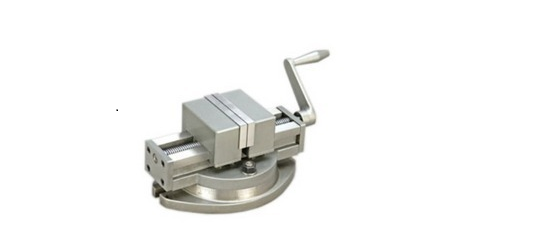
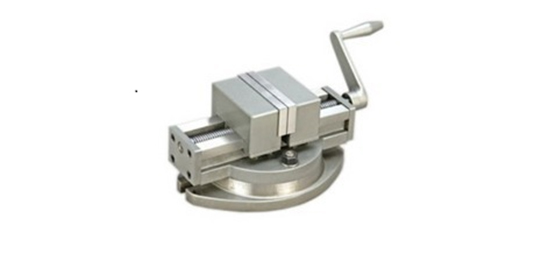
image fixing fourth completed

Changed region(s): [[0.2672, 0.056, 0.7124, 0.868]]

diff --git a/products/machine vices/6/index.html b/products/machine vices/6/index.html
@@ -108,13 +108,13 @@
     <section id="product">
         <div class="container">
             <div class="image-holder">
-                <div class="row">
-                    <div class="col-lg-12">
-                        <img src="images/three.png" alt="product image" style="padding: 0px !important">
+                <div class="row" style="vertical-align: middle">
+                    <div class="col-lg-7">
+                        <img src="images/one.jpg" alt="product image" style="padding: 0px !important">
                     </div>
-                    <!--<div class="col-lg-5">
-    <img class="ed-image" src="images/one-ed.png" alt="ed image">
-</div>-->
+                    <div class="col-lg-5">
+                        <img class="ed-image" src="images/one-ed.jpg" alt="ed image">
+                    </div>
                 </div>
             </div>
             <div class="information">

diff --git a/products/machine vices/4/index.html b/products/machine vices/4/index.html
@@ -110,7 +110,7 @@
             <div class="image-holder">
                 <div class="row">
                     <div class="col-lg-12">
-                        <img src="images/three.png" alt="product image" style="padding: 0px !important">
+                        <img src="images/image.jpg" alt="product image" style="padding: 0px !important">
                     </div>
                     <!--<div class="col-lg-5">
     <img class="ed-image" src="images/one-ed.png" alt="ed image">

diff --git a/products/machine vices/8/index.html b/products/machine vices/8/index.html
@@ -110,7 +110,7 @@
             <div class="image-holder">
                 <div class="row">
                     <div class="col-lg-12">
-                        <img src="images/three.png" alt="product image" style="padding: 0px !important">
+                        <img src="images/four.jpg" alt="product image" style="padding: 0px !important">
                     </div>
                     <!--<div class="col-lg-5">
     <img class="ed-image" src="images/one-ed.png" alt="ed image">
